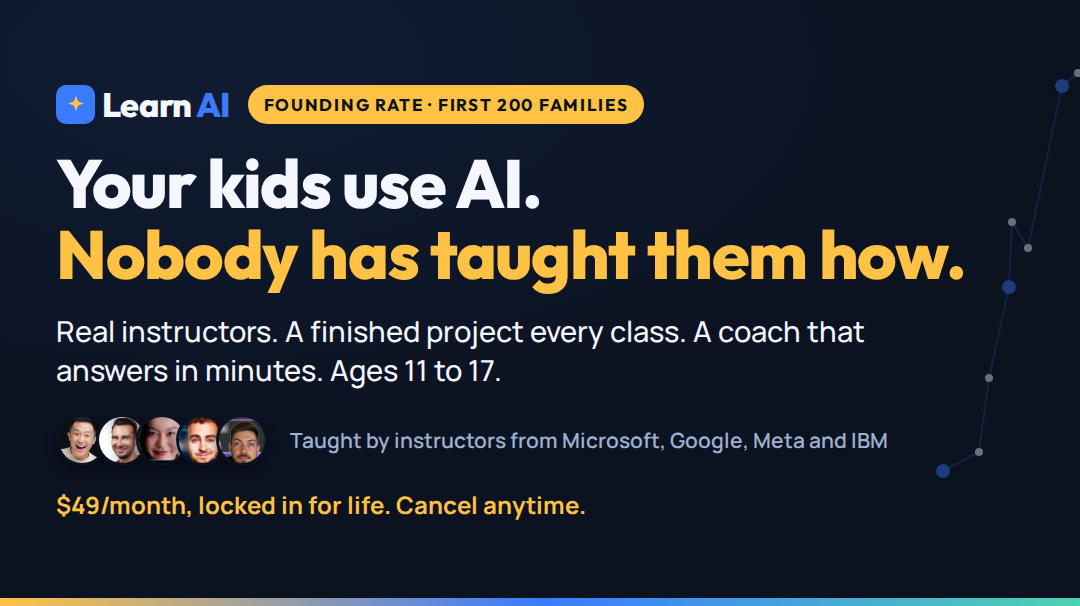
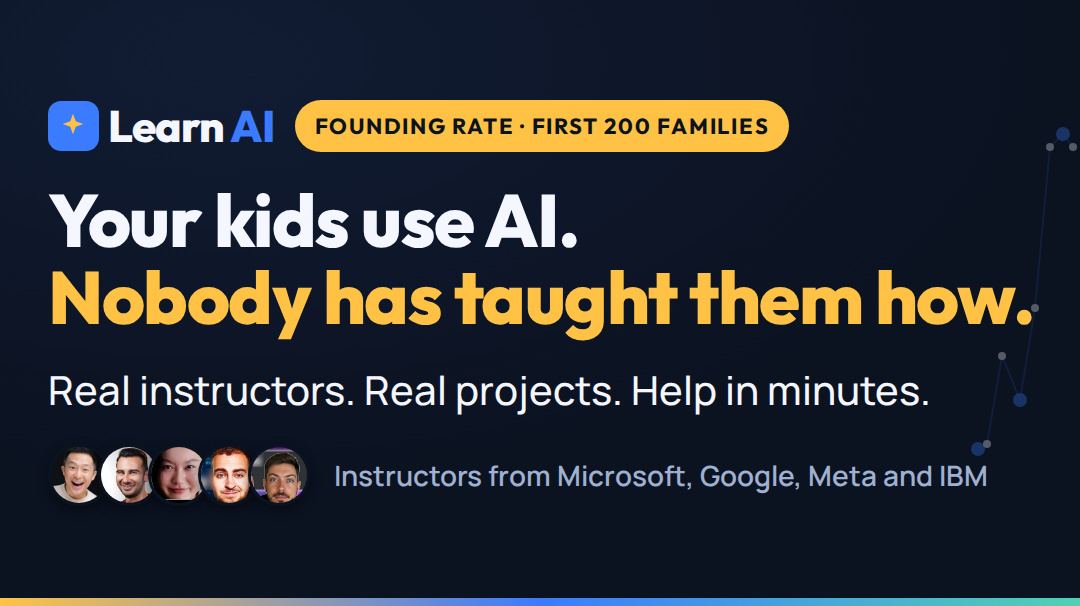
Make the checkout cover readable on phones
Bigger wordmark, chip, headline and subhead; one-line subhead; the
price line is dropped because it sits right under the cover anyway.

Claude-Session: https://claude.ai/code/session_0175zQefr8gbNhXGeym41jJw

diff --git a/brand/generate.py b/brand/generate.py
@@ -174,18 +174,17 @@ render("og-image", 1200, 630, page(1200, 630, body))
 # three heavy hitters, the instructors' faces for legitimacy, and the founding rate. Text fills
 # the frame; the constellation is pushed to a narrow strip on the right.
 ASSETS = os.path.join(HERE, "assets")
-def face(name, size=46):
+def face(name, size=56):
     return f'<img src="file://{os.path.join(ASSETS, name)}" style="width:{size}px;height:{size}px;border-radius:50%;object-fit:cover;border:3px solid {NAVY};margin-left:-12px;box-shadow:0 4px 12px rgba(0,0,0,.4)">'
 faces = "".join(face(n) for n in ("avatar-jeff.jpg", "avatar-kevin-3.jpg", "avatar-tina-2.jpg", "avatar-tim-3.jpg", "avatar-jagger-3.jpg"))
-body = f'''<div class="ground" style="width:1080px;height:606px"><div style="position:absolute;left:820px;top:0;width:260px;height:606px;opacity:.45">{nodes_svg(260,606,BLUE,seed=42,count=8)}</div>
-  <div style="position:absolute;left:56px;top:0;height:606px;display:flex;flex-direction:column;justify-content:center;gap:22px;max-width:1000px">
-    <div style="display:flex;align-items:center;gap:18px;flex-wrap:wrap">{wordmark(34)}<div class="chip" style="font-size:17px;color:{NAVY};background:{SPARK};padding:9px 16px;border-radius:999px;letter-spacing:.1em">Founding rate · first 200 families</div></div>
-    <div class="title" style="font-size:68px;line-height:1.04;margin-top:2px">Your kids use AI.<br><span style="color:{SPARK}">Nobody has taught them how.</span></div>
-    <div class="sub" style="font-size:29px;line-height:1.35;max-width:900px;color:{INK}">Real instructors. A finished project every class. A coach that answers in minutes. Ages 11 to 17.</div>
-    <div style="display:flex;align-items:center;gap:22px;margin-top:2px">
+body = f'''<div class="ground" style="width:1080px;height:606px"><div style="position:absolute;left:860px;top:0;width:220px;height:606px;opacity:.35">{nodes_svg(220,606,BLUE,seed=42,count=8)}</div>
+  <div style="position:absolute;left:48px;top:0;height:606px;display:flex;flex-direction:column;justify-content:center;gap:30px;max-width:1010px">
+    <div style="display:flex;align-items:center;gap:20px;flex-wrap:wrap">{wordmark(44)}<div class="chip" style="font-size:22px;color:{NAVY};background:{SPARK};padding:12px 20px;border-radius:999px;letter-spacing:.08em">Founding rate · first 200 families</div></div>
+    <div class="title" style="font-size:74px;line-height:1.04">Your kids use AI.<br><span style="color:{SPARK}">Nobody has taught them how.</span></div>
+    <div class="sub" style="font-size:40px;line-height:1.2;color:{INK};white-space:nowrap">Real instructors. Real projects. Help in minutes.</div>
+    <div style="display:flex;align-items:center;gap:24px">
       <div style="display:flex;padding-left:12px">{faces}</div>
-      <div class="sub" style="font-size:21px;color:{MUTED};font-weight:600">Taught by instructors from Microsoft, Google, Meta and IBM</div></div>
-    <div class="sub" style="font-size:24px;color:{SPARK};font-weight:700">$49/month, locked in for life. Cancel anytime.</div></div>
+      <div class="sub" style="font-size:28px;color:{MUTED};font-weight:600;white-space:nowrap">Instructors from Microsoft, Google, Meta and IBM</div></div></div>
   <div style="position:absolute;left:0;bottom:0;width:1080px;height:8px;background:linear-gradient(90deg,{SPARK},{BLUE},{MINT})"></div></div>'''
 render("checkout-cover", 1080, 606, page(1080, 606, body))
 

diff --git a/docs/CHECKOUT-COPY.md b/docs/CHECKOUT-COPY.md
@@ -11,9 +11,10 @@ words, the ones parents used in the research (`docs/RESEARCH-AVATARS.md`, Part 5
 ## Cover image
 
 Upload `brand/assets/checkout-cover.png` (1080 x 606, renders at 540 x 303). It carries the
-landing page headline ("Your kids use AI. Nobody has taught them how."), the three heavy hitters,
-five instructor faces with "Taught by instructors from Microsoft, Google, Meta and IBM", the
-founding cap and the locked-in price, so the text fields below can stay short.
+landing page headline ("Your kids use AI. Nobody has taught them how."), one line of proof
+("Real instructors. Real projects. Help in minutes."), five instructor faces with "Instructors
+from Microsoft, Google, Meta and IBM", and the founding-rate chip. Type is kept large and the
+price is left off, because the cover renders small on phones and the price sits right below it.
 
 ## Product details: title
 
